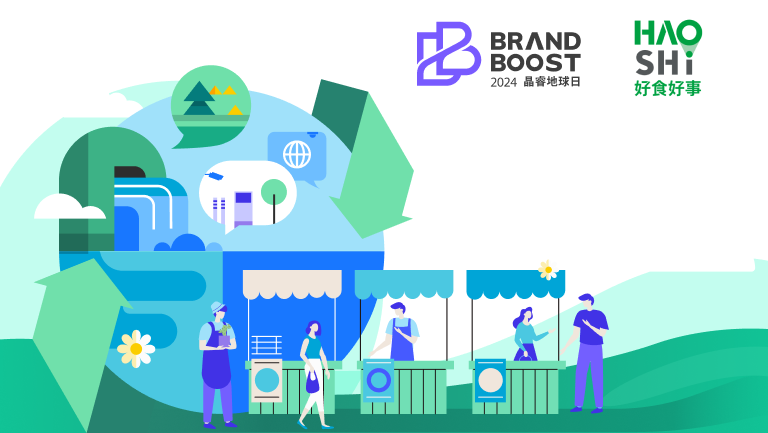
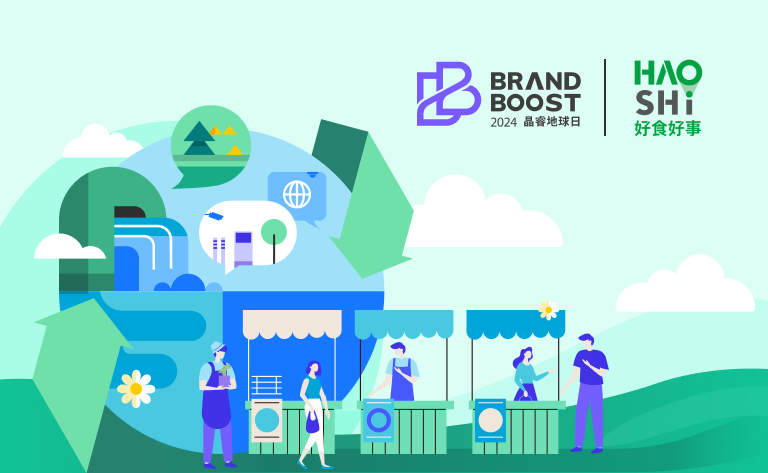
0414-2

diff --git a/pages/earthDay/index.scss b/pages/earthDay/index.scss
@@ -10,15 +10,11 @@
             $boxHeight_pc: 899px;
             $boxWidth_mb: 768px;
             $boxHeight_mb: 472px;
-            background: url('/earth/bg3.png') no-repeat;
+            background: url('/earth/bg.png') no-repeat;
             background-size: 100%;
-            background-color: #DDFEF5;
-            background-position: bottom;
             @include mob-width {
                 background: url('/earth/mb/bg.png') no-repeat;
                 background-size: 100%;
-                background-color: #DDFEF5;
-                background-position: bottom;
             }
             > .height {
                 display: block;
@@ -116,9 +112,9 @@
                     $h: 799px;
                     @include getImgBoxSize($w, $h, $wrapWidth_pc);
                     @include mob-width {
-                        top: #{math.div(525px, $boxHeight_mb) * 100%};
+                        top: #{math.div(535px, $boxHeight_mb) * 100%};
                         $w: 688px;
-                        $h: 1860px;
+                        $h: 1880px;
                         @include getImgBoxSize($w, $h, $wrapWidth_mb);
                         border-radius: vw(40,768);
                         border: vw(4,768) solid #465AFF;
